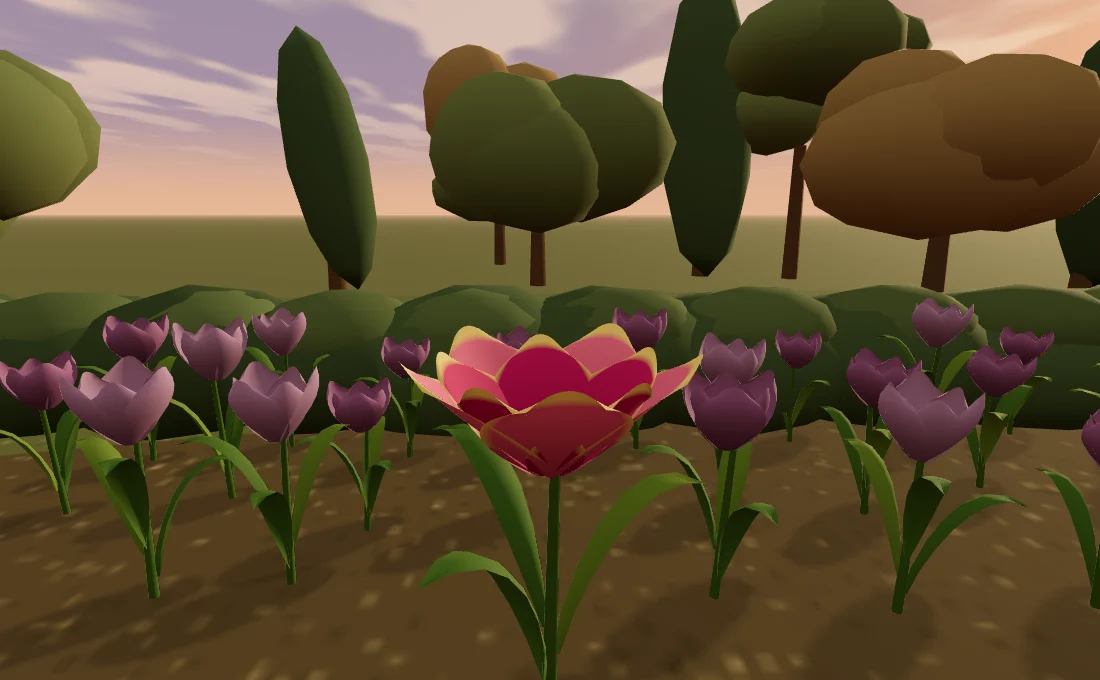
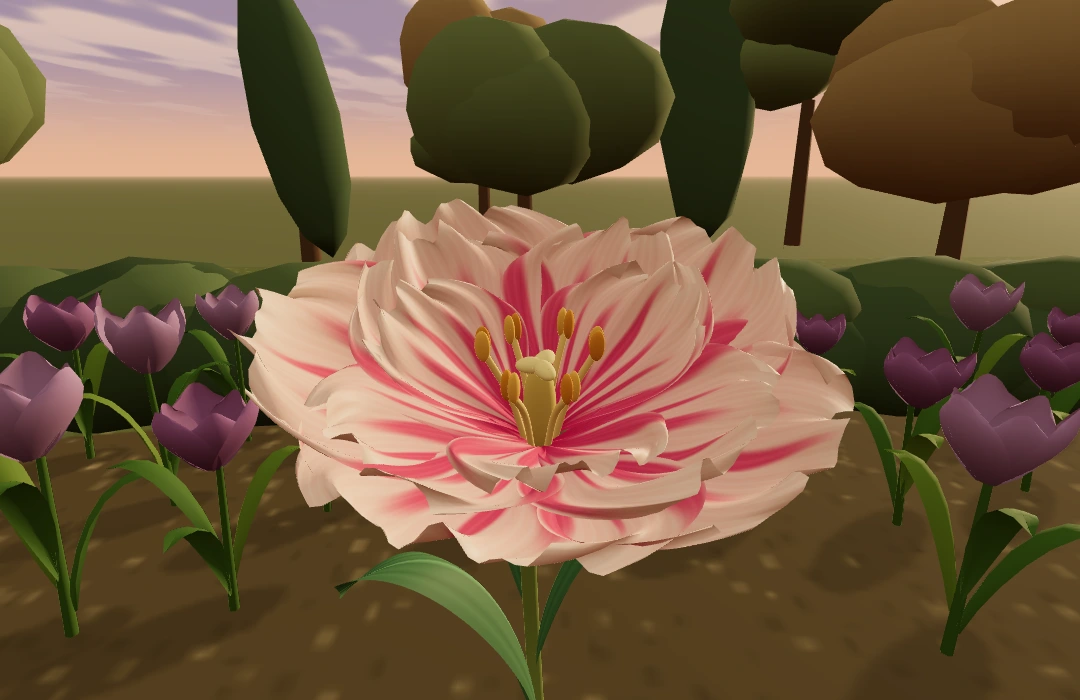
Da detalle y movimiento al tulipán especial

diff --git a/src/special-tulip.ts b/src/special-tulip.ts
@@ -1,0 +1,165 @@
+import {
+  BufferAttribute, BufferGeometry, CanvasTexture, CatmullRomCurve3, Color, DoubleSide,
+  Group, Mesh, MeshStandardMaterial, SphereGeometry, SRGBColorSpace, TubeGeometry, Vector3,
+} from 'three';
+import { ParametricGeometry } from 'three/addons/geometries/ParametricGeometry.js';
+import { mergeGeometries } from 'three/addons/utils/BufferGeometryUtils.js';
+import { random, specialFlower } from './field';
+
+const tau = Math.PI * 2;
+const smooth = (start: number, end: number, value: number) => {
+  const t = Math.min(1, Math.max(0, (value - start) / (end - start)));
+  return t * t * (3 - 2 * t);
+};
+
+function petalTexture() {
+  const side = 384;
+  const canvas = document.createElement('canvas');
+  canvas.width = canvas.height = side;
+  const ctx = canvas.getContext('2d')!;
+  const image = ctx.createImageData(side, side);
+  const next = random(9102);
+  for (let y = 0; y < side; y++) {
+    const v = 1 - y / (side - 1);
+    for (let x = 0; x < side; x++) {
+      const u = x / (side - 1) * 2 - 1;
+      const vein = u * (1 - .23 * v) + .028 * Math.sin(v * 5 + u * 6) + .011 * Math.sin(v * 12 - u * 8);
+      const streak = .5 + .5 * Math.cos(vein * 25 + Math.sin(vein * 13));
+      const flame = .23 + .57 * streak ** 1.5 + .13 * Math.cos(vein * 8);
+      const blush = 1 - smooth(flame - .18, flame + .12, v);
+      const base = smooth(0, .31, v);
+      const rib = Math.cos(vein * 115 + .6 * Math.sin(vein * 47));
+      const silk = 4.2 * rib + 2.2 * Math.cos(vein * 277) + (next() - .5) * 4;
+      const rim = smooth(.87, 1, v) * 9;
+      const i = (y * side + x) * 4;
+      image.data[i] = 255 - blush * (43 - 19 * base) + silk;
+      image.data[i + 1] = 182 + 30 * v - blush * (120 - 16 * base) + silk + rim;
+      image.data[i + 2] = 188 + 10 * v - blush * (77 - 18 * base) + silk + rim;
+      image.data[i + 3] = 255;
+    }
+  }
+  ctx.putImageData(image, 0, 0);
+  const map = new CanvasTexture(canvas);
+  map.colorSpace = SRGBColorSpace;
+  map.anisotropy = 4;
+  return map;
+}
+
+export function createSpecialTulip() {
+  const root = new Group();
+  root.position.set(specialFlower.x, specialFlower.y, specialFlower.z);
+  root.scale.setScalar(specialFlower.scale);
+  const head = new Group();
+  const stemCurve = new CatmullRomCurve3([
+    new Vector3(), new Vector3(-.025, .29, .014), new Vector3(.018, .57, .02), new Vector3(.062, .79, 0),
+  ]);
+  head.position.copy(stemCurve.getPoint(1));
+  root.add(head);
+  const pieces: BufferGeometry[] = [];
+  const tint = new Color();
+  function tintPart(geometry: BufferGeometry, color: string) {
+    const pos = geometry.getAttribute('position');
+    const rgb = new Float32Array(pos.count * 3);
+    tint.set(color);
+    for (let i = 0; i < pos.count; i++) tint.toArray(rgb, i * 3);
+    geometry.setAttribute('color', new BufferAttribute(rgb, 3));
+    pieces.push(geometry);
+  }
+  tintPart(new TubeGeometry(stemCurve, 20, .016, 12, false), '#839753');
+  for (let k = 0; k < 3; k++) {
+    const length = 1 - k * .12;
+    const leaf = new ParametricGeometry((s, v, p) => {
+      const u = s * 2 - 1;
+      const width = (.007 + .069 * Math.sin(Math.PI * v) ** .85) * length;
+      const twist = .6 * v;
+      p.set(u * width * Math.cos(twist), Math.sin(v * 1.85) * .51 * length + .018 * u * v,
+        .37 * v ** 1.6 * length + u * width * Math.sin(twist) + Math.abs(u) ** 1.4 * width * .62);
+    }, 14, 28);
+    leaf.rotateY(k * 2.35 + .5);
+    const base = stemCurve.getPoint(.09 + k * .16);
+    leaf.translate(base.x, base.y, base.z);
+    tintPart(leaf, '#578359');
+    const colors = leaf.getAttribute('color');
+    for (let i = 0; i < colors.count; i++) {
+      const u = Math.abs((i % 15) / 7 - 1);
+      const light = 1 + .58 * Math.exp(-u * 19) + .12 * Math.cos(u * 27);
+      colors.setXYZ(i, tint.r * light, tint.g * light, tint.b * light);
+    }
+  }
+  const plantMaterial = new MeshStandardMaterial({ vertexColors: true, side: DoubleSide, roughness: .65 });
+  function assemble(parent: Group) {
+    const geometry = mergeGeometries(pieces)!;
+    parent.add(new Mesh(geometry, plantMaterial));
+    for (const piece of pieces) piece.dispose();
+    pieces.length = 0;
+    return geometry;
+  }
+  const plant = assemble(root);
+  function oval(x: number, y: number, z: number, rx: number, ry: number, rz: number, color: string, angle = 0) {
+    tintPart(new SphereGeometry(1, 14, 10).scale(rx, ry, rz).rotateY(angle).translate(x, y, z), color);
+  }
+  oval(0, .07, 0, .028, .095, .028, '#e2c871');
+  for (let k = 0; k < 6; k++) {
+    const a = k * tau / 6;
+    const x = Math.sin(a), z = Math.cos(a);
+    const h = .175 + .014 * Math.cos(k * 2);
+    const filament = new CatmullRomCurve3([new Vector3(x * .026, .003, z * .026),
+      new Vector3(x * .048, .10, z * .048), new Vector3(x * .085, h, z * .085)]);
+    tintPart(new TubeGeometry(filament, 10, .006, 7, false), '#fbd88a');
+    for (const side of [-1, 1]) {
+      oval(x * .085 + z * side * .006, h + .014, z * .085 - x * side * .006,
+        .008, .028, .012, side < 0 ? '#eca63b' : '#ffc95e', a);
+    }
+    if (k % 2 === 0) oval(x * .013, .162, z * .013, .015, .012, .025, '#ffeba4', a);
+  }
+  const center = assemble(head);
+  const map = petalTexture();
+  const silk = new MeshStandardMaterial({ map, side: DoubleSide, roughness: .48 });
+  const petals: Mesh<ParametricGeometry, MeshStandardMaterial>[] = [];
+  const next = random(361);
+  for (const [layer, count] of [5, 4, 3].entries()) {
+    for (let k = 0; k < count; k++) {
+      const angle = tau * k / count + layer * .79 + next() * .12;
+      const phase = next() * tau;
+      const height = .32 - layer * .035 + next() * .025;
+      const spread = .28 - layer * .062 + next() * .018;
+      const geometry = new ParametricGeometry((s, v, p) => {
+        const u = 2 * s - 1;
+        const width = .20 + (.90 - layer * .025) * Math.sin(Math.PI * (.02 + .93 * v)) ** .55;
+        const theta = u * width + .11 * v * Math.sin(phase + v * 2);
+        const fold = .010 * Math.sin(u * 11 + phase) + .006 * Math.sin(u * 19 + v * 4);
+        const r = .017 + spread * Math.sin(v * 1.74) ** 1.2 + (.047 + fold) * v ** 5
+          + .009 * Math.cos(u * 9 + v * 1.6) * Math.sin(v * Math.PI);
+        const lip = v ** 3 * (.049 * u * u + .016 * Math.cos(u * 11 + phase) + .009 * Math.sin(u * 22 + phase));
+        p.set(Math.sin(theta) * r, height * v - lip, Math.cos(theta) * r);
+      }, 32, 30);
+      const pivot = new Group();
+      pivot.rotation.y = angle;
+      const petal = new Mesh(geometry, silk);
+      pivot.add(petal);
+      head.add(pivot);
+      petals.push(petal);
+    }
+  }
+  return {
+    root,
+    update(time: number, distance: number, reduced: boolean) {
+      const wind = reduced ? 0 : Math.sin(time * 1.37) + .3 * Math.sin(time * 2.51);
+      root.rotation.z = -.035 + .037 * wind;
+      root.rotation.x = reduced ? 0 : .019 * Math.sin(time * 1.13);
+      head.rotation.z = -.36 + .026 * wind;
+      const opening = reduced ? .10 : .17 * (1 - smooth(1.3, 4.2, distance));
+      for (let i = 0; i < petals.length; i++) {
+        petals[i].rotation.x = opening + (reduced ? 0 : .024 * Math.sin(time * 1.2 + i * .52));
+      }
+    },
+    dispose() {
+      for (const petal of petals) petal.geometry.dispose();
+      plant.dispose();
+      center.dispose();
+      plantMaterial.dispose();
+      silk.dispose();
+      map.dispose();
+    },
+  };
+}

diff --git a/src/flowers.ts b/src/flowers.ts
@@ -1,9 +1,11 @@
 import {
   Box3, BufferAttribute, BufferGeometry, Color, CylinderGeometry, DoubleSide, Group, InstancedMesh,
-  Mesh, MeshStandardMaterial, Object3D,
+  MeshStandardMaterial, Object3D,
 } from 'three';
 import { mergeGeometries } from 'three/addons/utils/BufferGeometryUtils.js';
 import { palette, sectorSize, specialFlower, type Sector } from './field';
+
+import { createSpecialTulip } from './special-tulip';
 
 function tint(geometry: BufferGeometry, color: Color, isPetal: boolean): BufferGeometry {
   const count = geometry.getAttribute('position').count;
@@ -33,7 +35,7 @@ function surface(across: number, along: number, vertex: (u: number, v: number) =
   return mesh;
 }
 
-function makeFlower(detail: boolean, special = false) {
+function makeFlower(detail: boolean) {
   const stem = new CylinderGeometry(.013, .021, .68, detail ? 6 : 3, 1)
     .rotateZ(-.055).translate(.012, .34, 0);
   stem.deleteAttribute('uv');
@@ -48,15 +50,15 @@ function makeFlower(detail: boolean, special = false) {
     geometries.push(tint(leaf, new Color(i % 2 ? '#6d8b3b' : '#537838'), false));
   }
 
-  const petalCount = special ? 10 : detail ? 6 : 3;
+  const petalCount = detail ? 6 : 3;
   for (let i = 0; i < petalCount; i++) {
     const inner = i % 2 === 1 && detail;
-    const across = special ? 12 : detail ? 6 : 3;
-    const along = special ? 16 : detail ? 7 : 4;
+    const across = detail ? 6 : 3;
+    const along = detail ? 7 : 4;
     const petal = surface(across, along, (u, v) => {
       const width = (.01 + .115 * Math.sin(Math.PI * (v * .86 + .05)) ** .72) * (inner ? .89 : 1);
-      const curl = .031 + .116 * Math.sin(v * 2.12) + .047 * v + (special ? .15 * v ** 2 : 0);
-      return [u * width * (special ? 1.24 : 1), .64 + v * (inner ? .265 : .29) - .046 * u * u * v ** 3,
+      const curl = .031 + .116 * Math.sin(v * 2.12) + .047 * v;
+      return [u * width, .64 + v * (inner ? .265 : .29) - .046 * u * u * v ** 3,
         (curl - width * u * u * .53) * (inner ? .8 : 1)];
     });
     petal.rotateY(i * Math.PI * 2 / petalCount);
@@ -66,12 +68,7 @@ function makeFlower(detail: boolean, special = false) {
     const colors = petal.getAttribute('color');
     for (let j = 0; j < positions.count; j++) {
       const light = .52 + Math.min(1, Math.max(0, (positions.getY(j) - .64) / .28)) * .48;
-      if (special) {
-        const v = Math.floor(j / (across + 1)) / along;
-        const u = Math.abs(2 * (j % (across + 1)) / across - 1);
-        petalColor.set(v >= .93 || (u > .96 && v > .36) ? '#ffe386' : inner ? '#d74787' : '#fa84ae');
-        colors.setXYZ(j, petalColor.r * light, petalColor.g * light, petalColor.b * light);
-      } else colors.setXYZ(j, light, light, light);
+      colors.setXYZ(j, light, light, light);
     }
     geometries.push(petal);
   }
@@ -116,11 +113,8 @@ export function createFlowers(sectors: Sector[]) {
 
   const transform = new Object3D();
   const color = new Color();
-  const special = new Mesh(makeFlower(true, true), material);
-  special.position.set(specialFlower.x, specialFlower.y, specialFlower.z);
-  special.rotation.y = specialFlower.angle;
-  special.scale.setScalar(specialFlower.scale);
-  group.add(special);
+  const special = createSpecialTulip();
+  group.add(special.root);
   const plots = sectors.filter(plot => plot.flowers.length).map(plot => {
     const flowers = plot.flowers.filter(flower => flower !== specialFlower);
     const mesh = new InstancedMesh(far, material, flowers.length);
@@ -150,6 +144,7 @@ export function createFlowers(sectors: Sector[]) {
   return {
     group,
     update(x: number, z: number, compact: boolean, time: number, reducedMotion: boolean): void {
+      special.update(time, Math.hypot(x - specialFlower.x, z - specialFlower.z), reducedMotion);
       windTime.value = time;
       windStrength.value = reducedMotion ? 0 : 1;
       if (compact === lastCompact && Math.abs(lastX - x) < 2 && Math.abs(lastZ - z) < 2) return;
@@ -170,7 +165,7 @@ export function createFlowers(sectors: Sector[]) {
     dispose(): void {
       for (const { mesh } of plots) mesh.dispose();
       material.dispose();
-      special.geometry.dispose();
+      special.dispose();
       near.dispose();
       far.dispose();
     },

diff --git a/src/field.ts b/src/field.ts
@@ -57,8 +57,8 @@ export const beds = [
 
 const bend = loop.getPointAt(.16);
 const tangent = loop.getTangentAt(.16);
-const specialX = bend.x + tangent.z * (pathRadius + .15);
-const specialZ = bend.z - tangent.x * (pathRadius + .15);
+const specialX = bend.x + tangent.z * (pathRadius + .24);
+const specialZ = bend.z - tangent.x * (pathRadius + .24);
 export const specialFlower: Flower = {
   x: specialX, z: specialZ, y: groundHeight(specialX, specialZ),
   scale: 1.35, angle: .4, color: 3, shade: .5,
@@ -81,7 +81,7 @@ export function plantField(): Sector[] {
       const x = column + (next() - .5) * .44;
       const z = row + (next() - .5) * .44;
       const bed = beds.find(([cx, cz, rx, rz]) => ((x - cx) / rx) ** 2 + ((z - cz) / rz) ** 2 < 1);
-      if (!bed || distanceToPath(x, z) < .27 || Math.hypot(x - specialX, z - specialZ) < .82) continue;
+      if (!bed || distanceToPath(x, z) < .27 || Math.hypot(x - specialX, z - specialZ) < 1.10) continue;
       plant({ x, y: groundHeight(x, z), z, scale: .87 + next() * .23, angle: next() * Math.PI * 2,
         color: bed[4], shade: next() });
     }

diff --git a/src/experience.ts b/src/experience.ts
@@ -28,7 +28,7 @@ export function createExperience(surface: HTMLCanvasElement, controls: ReturnTyp
   let exploring = false;
   let paused = false;
   let flowerVisible = false;
-  const blossom = new Vector3(specialFlower.x, specialFlower.y + .85 * specialFlower.scale, specialFlower.z);
+  const blossom = new Vector3(specialFlower.x + .14, specialFlower.y + .96 * specialFlower.scale, specialFlower.z);
   const projected = new Vector3();
 
   function updatePrompt(): void {

diff --git a/README.md b/README.md
@@ -1,6 +1,6 @@
 # Jardín de Tulipanes
 
-Recorre un jardín de tulipanes en primera persona y descubre una dedicatoria al doblar el sendero. Al acercarte a la flor de borde dorado, pulsa E o usa el botón para leerla.
+Recorre un jardín de tulipanes en primera persona y descubre una dedicatoria al doblar el sendero. Al acercarte a la flor de pétalos veteados, pulsa E o usa el botón para leerla.
 
 ## Ejecutar en local
 
